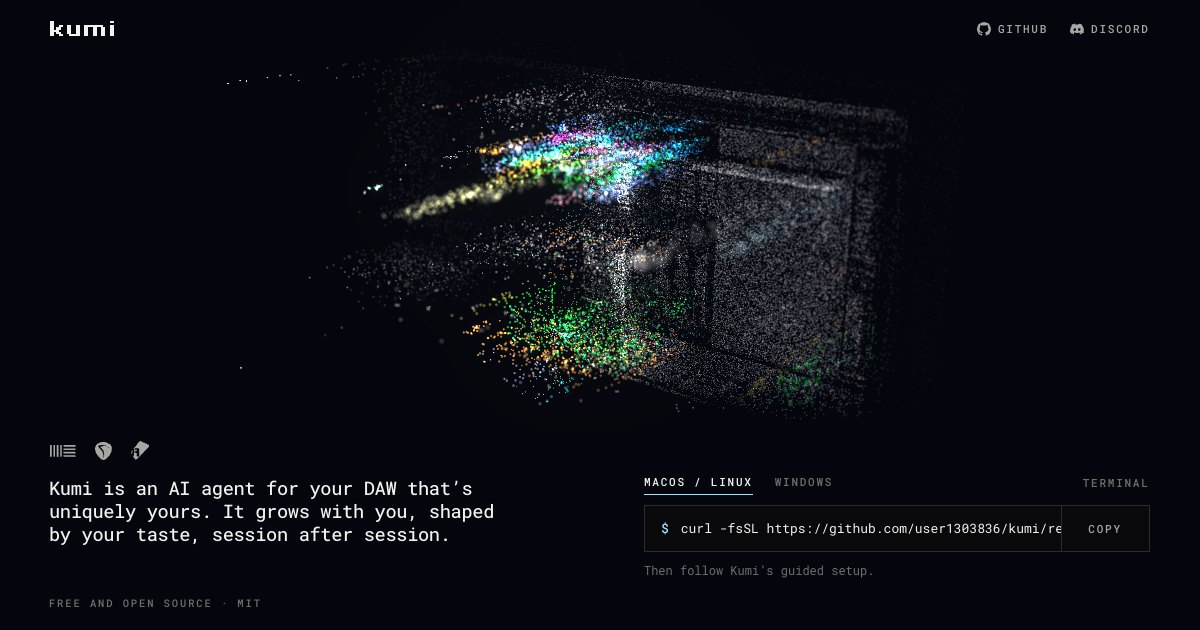
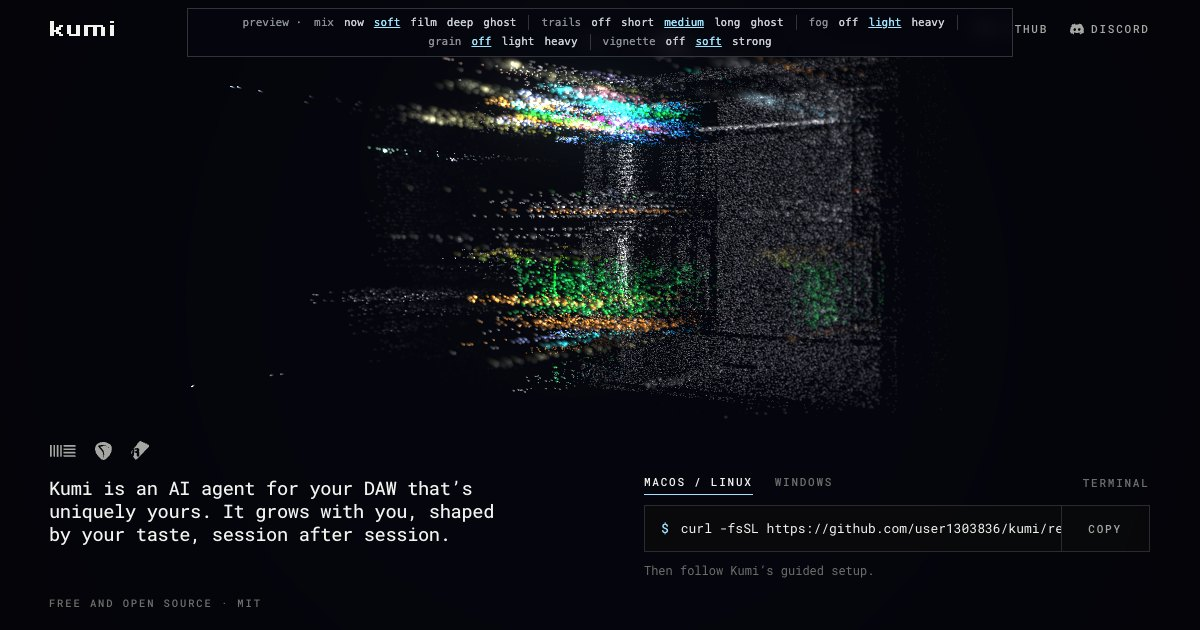
Preview: trails and atmosphere for the point cloud
The page as it would go live (headline F at 80%), plus four switches in the
preview bar: trails (how long each point's afterimage lasts as the view
glides), fog (the far side of the cloud sinks into the dark), grain (fine
moving film grain) and vignette (darker corners), and five ready-made mixes.
"now" is the live site with every effect off.

Changed region(s): [[0.2158, 0.0302, 0.74, 0.6635], [0.6783, 0.0302, 0.8325, 0.0603], [0.3083, 0.2111, 0.3392, 0.2413]]

diff --git a/index.html b/index.html
@@ -5,6 +5,7 @@
 <meta name="viewport" content="width=device-width,initial-scale=1,viewport-fit=cover">
 <title>Kumi · an AI agent in your DAW</title>
 <meta name="description" content="A free, open-source AI agent that works inside Ableton Live, REAPER and Renoise. Ask for the sound in your head, a mix like a track you love, or the patch from a tutorial: Kumi builds it in your project and listens until it’s right.">
+<meta name="robots" content="noindex">
 <meta name="theme-color" content="#05060d">
 <link rel="icon" href="favicon.svg" type="image/svg+xml">
 <link rel="apple-touch-icon" href="apple-touch-icon.png">
@@ -33,6 +34,8 @@ import * as THREE from 'three';
 import { EffectComposer } from 'three/addons/postprocessing/EffectComposer.js';
 import { RenderPass } from 'three/addons/postprocessing/RenderPass.js';
 import { UnrealBloomPass } from 'three/addons/postprocessing/UnrealBloomPass.js';
+import { AfterimagePass } from 'three/addons/postprocessing/AfterimagePass.js';
+import { ShaderPass } from 'three/addons/postprocessing/ShaderPass.js';
 
 const K = window.KUMI, RM = K.reducedMotion();
 const LAYOUT = 'bottom';
@@ -92,6 +95,7 @@ const PRELUDE = `
   attribute vec2 uvp; attribute float rnd; attribute float layer;
   uniform sampler2D uA, uB; uniform float uMix, uFlat, uAspect, uDepth, uScan, uFocus, uView, uT, uCell;
   uniform float uAperture, uBokeh, uMaxPt;
+  uniform float uFog, uFogNear, uFogFar;
   uniform sampler2D uA2; uniform float uSrc;
   float srcW = 0.0;   // how far this point has turned into the other source video
   uniform vec4 uClear; uniform vec4 uClear2; uniform float uClearAmt; uniform float uFeather; uniform vec2 uVPx;
@@ -138,6 +142,8 @@ const mat = new THREE.ShaderMaterial({
       float idleSize = min((1.1 + 2.1 * l + coc * 4.5) * (uView / 1000.0) * (3.0 / dist), uMaxPt);
       gl_PointSize = mix(idleSize, uCell, uFlat) * keep;
       vA = keep / (1.0 + coc * coc * 6.0) / max(thin, 0.001);
+      // fog: the further a point is from the camera, the fainter it gets (never while the picture is flat)
+      vA *= 1.0 - uFog * smoothstep(uFogNear, uFogFar, dist) * (1.0 - uFlat);
       vCoc = coc;
       vCol = c; vTone = smoothstep(0.1, 0.7, l);
     }`,
@@ -178,14 +184,55 @@ const mobile = () => innerWidth <= 820;
 // Glow: only the brightest points bleed a little light. It fades out while a demo plays, so the video stays clean.
 // The passes render in half-float, so faint additive points also stay true to colour.
 const BLOOM = (() => { const q = new URLSearchParams(location.search); return { strength: +(q.get('glow') || 0.32), radius: +(q.get('glowr') || 0.45), threshold: +(q.get('glowt') || 0.62) }; })();
+// Trails and atmosphere, each a URL parameter for comparing. trail: how slowly each frame's afterimage fades (0 = off,
+// 0.82 short … 0.975 very long; none while a demo plays). fog, grain, vig(nette): 0 = off up to about 1.
+const FX = (() => { const q = new URLSearchParams(location.search), n = (k, d) => (q.has(k) ? +q.get(k) : d);
+  return { trail: n('trail', 0.9), fog: n('fog', 0.4), grain: n('grain', 0), vig: n('vig', 0.35) }; })();
+U.uFog = { value: FX.fog }; U.uFogNear = { value: 3 }; U.uFogFar = { value: 4 };
+// The fog's band follows the view: from a third of the way into the cloud's depth (as seen from the camera) to its far
+// side, so it works from any angle: head-on the dim far points sink, from the side the far end does.
+const corner = new THREE.Vector3();
+function fogBand(aspect) {
+  let lo = 1e9, hi = -1e9;
+  for (let i = 0; i < 8; i++) {
+    corner.set((i & 1 ? 0.5 : -0.5) * aspect, i & 2 ? 0.5 : -0.5, i & 4 ? 1.0 : -0.25).applyMatrix4(camera.matrixWorldInverse);
+    lo = Math.min(lo, -corner.z); hi = Math.max(hi, -corner.z);
+  }
+  U.uFogNear.value = lo + (hi - lo) * 0.3; U.uFogFar.value = hi;
+}
 const composer = new EffectComposer(renderer);
 composer.addPass(new RenderPass(scene, camera));
+const trails = new AfterimagePass(FX.trail);
+trails.enabled = FX.trail > 0;
+// three's afterimage drops anything fainter than 0.1 (a guard for 8-bit buffers); these are half-float, so let the
+// faint ends of the trails fade out smoothly instead of cutting off.
+trails.compFsMaterial.fragmentShader = trails.compFsMaterial.fragmentShader.replace('when_gt( texelOld, 0.1 )', 'when_gt( texelOld, 0.004 )');
+composer.addPass(trails);                       // before the glow, so the trails glow like the points
 const bloom = new UnrealBloomPass(new THREE.Vector2(256, 256), BLOOM.strength, BLOOM.radius, BLOOM.threshold);
 composer.addPass(bloom);
+// the last pass: a vignette (the corners sink toward black) and fine moving grain, a little stronger in the darks
+const atmos = new ShaderPass({
+  uniforms: { tDiffuse: { value: null }, uGrain: { value: FX.grain }, uVig: { value: FX.vig }, uTime: { value: 0 }, uRes: { value: new THREE.Vector2(1, 1) } },
+  vertexShader: 'varying vec2 vUv; void main() { vUv = uv; gl_Position = projectionMatrix * modelViewMatrix * vec4(position, 1.0); }',
+  fragmentShader: [
+    'uniform sampler2D tDiffuse; uniform float uGrain, uVig, uTime; uniform vec2 uRes; varying vec2 vUv;',
+    'float h(vec2 p) { vec3 q = fract(vec3(p.xyx) * 0.1031); q += dot(q, q.yzx + 33.33); return fract((q.x + q.y) * q.z); }',
+    'void main() {',
+    '  vec4 c = texture2D(tDiffuse, vUv);',
+    '  vec2 d = (vUv - 0.5) * vec2(uRes.x / uRes.y, 1.0);',
+    '  c.rgb *= 1.0 - uVig * 0.85 * smoothstep(0.35, 1.1, length(d));',
+    '  float g = h(floor(vUv * uRes) + floor(uTime * 24.0) * vec2(37.0, 17.0)) - 0.5;',   // new grain 24 times a second
+    '  c.rgb += g * uGrain * 0.09 * (1.0 - 0.5 * dot(c.rgb, vec3(0.333)));',
+    '  gl_FragColor = c;',
+    '}'].join('\n')
+});
+atmos.enabled = FX.grain > 0 || FX.vig > 0;
+composer.addPass(atmos);
 function size() {
   const w = cv.clientWidth, h = cv.clientHeight;
   renderer.setSize(w, h, false);
   composer.setPixelRatio(renderer.getPixelRatio()); composer.setSize(w, h);
+  atmos.uniforms.uRes.value.set(cv.width, cv.height);
   U.uView.value = h * renderer.getPixelRatio();
   camera.aspect = w / Math.max(1, h);
   camera.fov = camera.aspect < 1 ? 50 : 34;
@@ -373,8 +420,12 @@ renderer.setAnimationLoop(() => {
   screenMat.opacity = Math.max(0, (f - 0.8) / 0.2);
   if (shell.video.readyState >= 2) texB.needsUpdate = true;
   bloom.strength = BLOOM.strength * (1 - f);
+  trails.uniforms.damp.value = Math.pow(FX.trail, dt * 60) * (1 - f);   // the same trail length at any frame rate
+  atmos.uniforms.uTime.value = RM ? 0 : t;
+  camera.updateMatrixWorld(); fogBand(aspect);
   composer.render(dt);
 });
 </script>
+<nav id="pv" aria-label="Preview"><b>preview ·</b><span><b>mix</b><a data-k="trail,fog,grain,vig" data-v="0,0,0,0" href="?trail=0&amp;fog=0&amp;grain=0&amp;vig=0">now</a><a data-k="trail,fog,grain,vig" data-v="0.9,0.4,0,0.35" href="?trail=0.9&amp;fog=0.4&amp;grain=0&amp;vig=0.35">soft</a><a data-k="trail,fog,grain,vig" data-v="0.82,0,0.35,0.35" href="?trail=0.82&amp;fog=0&amp;grain=0.35&amp;vig=0.35">film</a><a data-k="trail,fog,grain,vig" data-v="0.95,0.8,0.35,0.75" href="?trail=0.95&amp;fog=0.8&amp;grain=0.35&amp;vig=0.75">deep</a><a data-k="trail,fog,grain,vig" data-v="0.975,0.4,0,0" href="?trail=0.975&amp;fog=0.4&amp;grain=0&amp;vig=0">ghost</a></span><i></i><span><b>trails</b><a data-k="trail" data-v="0" href="?trail=0">off</a><a data-k="trail" data-v="0.82" href="?trail=0.82">short</a><a data-k="trail" data-v="0.9" href="?trail=0.9">medium</a><a data-k="trail" data-v="0.95" href="?trail=0.95">long</a><a data-k="trail" data-v="0.975" href="?trail=0.975">ghost</a></span><i></i><span><b>fog</b><a data-k="fog" data-v="0" href="?fog=0">off</a><a data-k="fog" data-v="0.4" href="?fog=0.4">light</a><a data-k="fog" data-v="0.8" href="?fog=0.8">heavy</a></span><i></i><span><b>grain</b><a data-k="grain" data-v="0" href="?grain=0">off</a><a data-k="grain" data-v="0.35" href="?grain=0.35">light</a><a data-k="grain" data-v="0.8" href="?grain=0.8">heavy</a></span><i></i><span><b>vignette</b><a data-k="vig" data-v="0" href="?vig=0">off</a><a data-k="vig" data-v="0.35" href="?vig=0.35">soft</a><a data-k="vig" data-v="0.75" href="?vig=0.75">strong</a></span></nav><style>#pv{position:fixed;z-index:50;left:50%;top:8px;transform:translateX(-50%);display:flex;flex-wrap:wrap;justify-content:center;gap:4px 12px;width:max-content;max-width:min(800px,calc(100vw - 24px));padding:6px 12px;background:rgba(5,6,13,.82);border:1px solid rgba(255,255,255,.18);font:500 11px/1.4 ui-monospace,Menlo,monospace;color:#8a8f99;-webkit-backdrop-filter:blur(8px);backdrop-filter:blur(8px)}#pv b{font-weight:500;color:#8a8f99}#pv span{display:flex;gap:0 10px;white-space:nowrap}#pv i{width:1px;align-self:stretch;background:rgba(255,255,255,.18)}#pv a{color:#c9cdd4;text-decoration:none}#pv a.on{color:#9fe3ff;text-decoration:underline}</style><script>(function(){var q=new URLSearchParams(location.search),d={"trail": "0.9", "fog": "0.4", "grain": "0", "vig": "0.35"};document.querySelectorAll("#pv a").forEach(function(a){var k=a.dataset.k.split(","),v=a.dataset.v.split(",");if(k.every(function(x,i){return(q.get(x)||d[x])===v[i];}))a.className="on";a.addEventListener("click",function(e){e.preventDefault();k.forEach(function(x,i){q.set(x,v[i]);});location.search=q.toString();});});})();</script>
 </body>
 </html>
